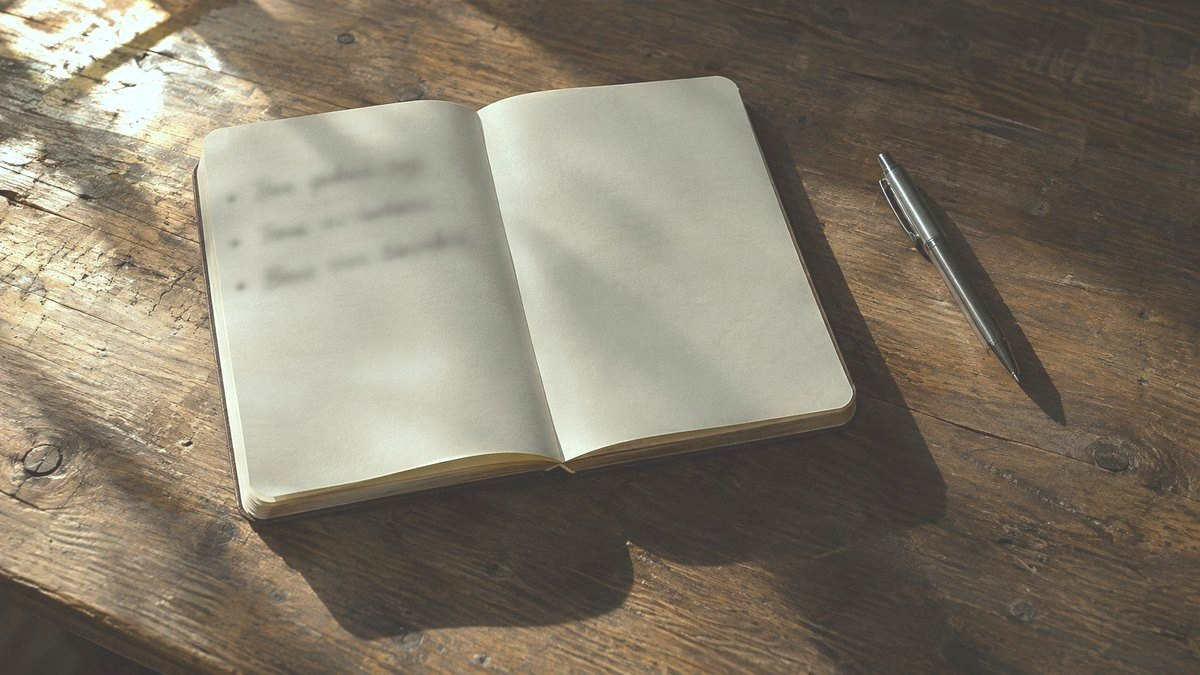
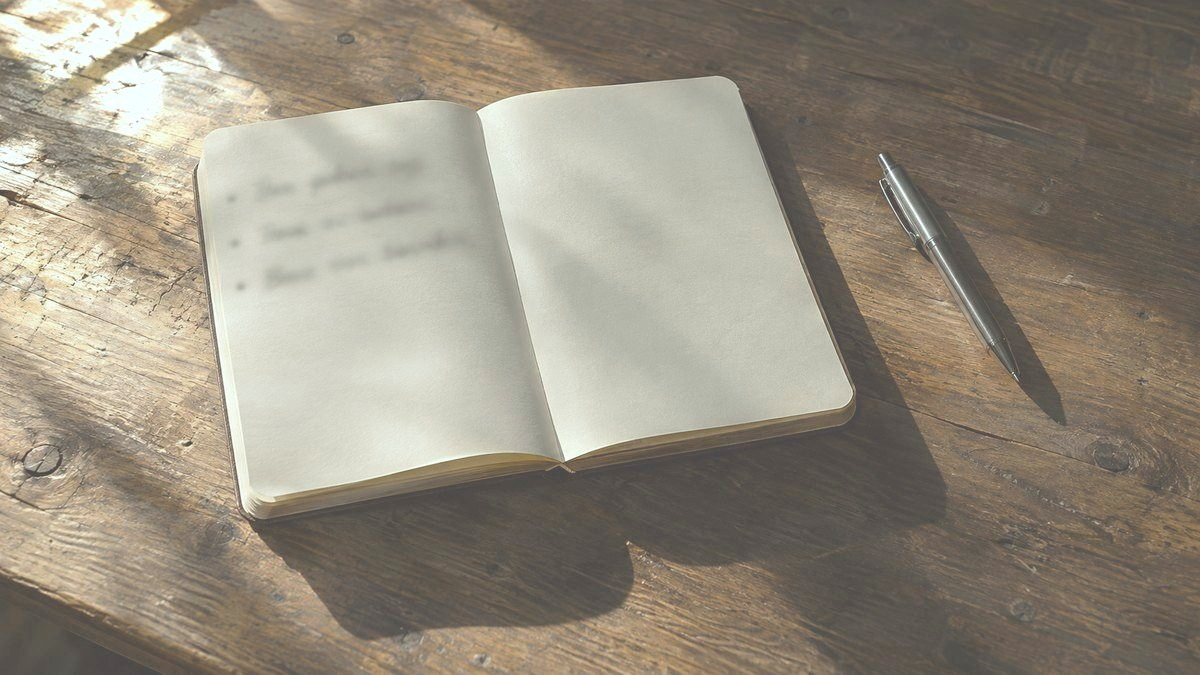
Round 8: lift note midtones to match set, add third-party disclosure table, make FV conversation-led

diff --git a/docs/index.html b/docs/index.html
@@ -23,9 +23,11 @@
       <p class="pill">20代・高卒・未経験でもOK</p>
       <h1>辞める前に、これだけは知っといて。</h1>
       <p class="lead-sub">気になる求人も、見るだけ見ます。</p>
-      <p class="who" data-name>りこ</p>
+      <!-- 採点8周目#3対応: FVの主役を「整った人物写真」から「実際に始まっている会話」へ。
+           話し手を明示して、チャットを添え物でなく入口にする -->
+      <p class="who"><span data-name>りこ</span>／キャリアハック</p>
       <div class="talk">
-        <div class="bubble">お悩みをえらぶと、続きが見られます</div>
+        <div class="bubble">辞めるかどうかは、まだ決めてなくていいです。いま引っかかってるところだけ教えてください</div>
         <div class="bubble me">いま いちばん知りたいのは <span class="time">23:08</span></div>
         <div class="pick" role="group" aria-label="いま いちばん知りたいこと">
           <button type="button" aria-pressed="false" data-worry="退職のときに何をもらうのか知らない">退職のときに何をもらうのか知らない</button>
@@ -244,8 +246,17 @@
     <!-- 採点5周目#5対応: 自己参照リンク(#privacy内から#privacyへ)を削除し、
          同意リンクの遷移先として実体のある見出しにした -->
     <h2 class="privacy-h">個人情報の取り扱いについて</h2>
-    <p>お預かりした氏名・連絡先・ご希望条件などの個人情報は、お仕事のご紹介および求人企業へのご推薦のため、提携する人材紹介会社（厚生労働大臣許可を受けた有料職業紹介事業者）へ提供します。提供をご希望されない場合は、LINEでお知らせください。その場合もご相談のみ承ります。</p>
-    <p>当社の職業紹介の実績は、厚生労働省「人材サービス総合サイト」でご確認いただけます。</p>
+    <p>お預かりした氏名・連絡先・ご希望条件などの個人情報は、お仕事のご紹介および求人企業へのご推薦のため、下記の提携先へ提供します。提供をご希望されない場合は、LINEでお知らせください。その場合もご相談のみ承ります。</p>
+    <!-- 採点8周目#2対応: 個人情報保護法27条の第三者提供は、本人が「どこへ渡るのか」を特定できる必要がある。
+         「提携する人材紹介会社」とだけ書くと同意の対象が特定できないため、枠を作った。
+         提供項目・提供方法は確定済みなので先に記載。社名と許可番号のみ要確認として残す -->
+    <dl class="partner">
+      <dt>提供先</dt><dd>（提携人材紹介会社名 ※確定後に記載）</dd>
+      <dt>許可番号</dt><dd>（厚生労働大臣許可 第◯◯-ユ-◯◯◯◯◯◯号 ※確定後に記載）</dd>
+      <dt>提供する項目</dt><dd>氏名／連絡先／希望条件／ご相談内容</dd>
+      <dt>提供の方法</dt><dd>電磁的記録の送信</dd>
+    </dl>
+    <p>上記の許可番号は、厚生労働省「人材サービス総合サイト」の事業所検索でご確認いただけます。</p>
   </div>
 </footer>
 

diff --git a/docs/style.css b/docs/style.css
@@ -215,9 +215,10 @@ p { margin: 0 0 14px; }
 /* 採点#4対応: 4/3 だと頭頂と顎下が切れるため 3/4 に。人物が収まる */
 /* 採点5周目#2対応: 3/4(520px)だと5択が1つも初見に入らず「入口が見えないFV」になっていた。
    1/1(390px)に縮めて、見出し→吹き出し→ボタン上部までを844px内に収める */
-.fv-img { width: 100%; aspect-ratio: 1 / 1; background: var(--bg-soft); overflow: hidden; }
+/* 採点8周目#3対応: 顔写真を主役から降ろし、会話を主役にする */
+.fv-img { width: 100%; aspect-ratio: 16 / 10; background: var(--bg-soft); overflow: hidden; }
 .fv-img img { width: 100%; height: 100%; object-fit: cover; object-position: center 15%; }
-.fv-card { background: #fff; border-radius: var(--radius); margin-top: -40px; position: relative; padding: 18px 14px 16px; box-shadow: 0 2px 12px rgba(0,0,0,.08); }
+.fv-card { background: #fff; border-radius: var(--radius); margin-top: -28px; position: relative; padding: 18px 14px 16px; box-shadow: 0 2px 12px rgba(0,0,0,.08); }
 .pill { display: inline-block; font-size: 12px; font-weight: 700; padding: 3px 12px; border: 1px solid var(--accent); border-radius: var(--radius-pill); color: var(--accent); margin: 0 0 10px; }
 .fv h1 { font-size: var(--fs-fv); line-height: 1.4; margin: 0 0 8px; font-weight: 800; }
 .fv .lead-sub { font-size: 14px; color: var(--fg-sub); margin: 0 0 10px; }
@@ -295,3 +296,8 @@ footer a { color: var(--fg-note); }
 
 /* 採点5周目#5対応: 同意リンクの遷移先の見出し */
 .privacy-h { font-size: 14px; color: var(--fg-note); margin: 0 0 8px; font-weight: 700; }
+
+/* 採点8周目#2対応: 第三者提供の提供先を特定できる形で明示する枠 */
+.partner { display: grid; grid-template-columns: 7em 1fr; gap: 4px 10px; margin: 10px 0; font-size: 12px; }
+.partner dt { color: var(--fg-note); }
+.partner dd { margin: 0; }
